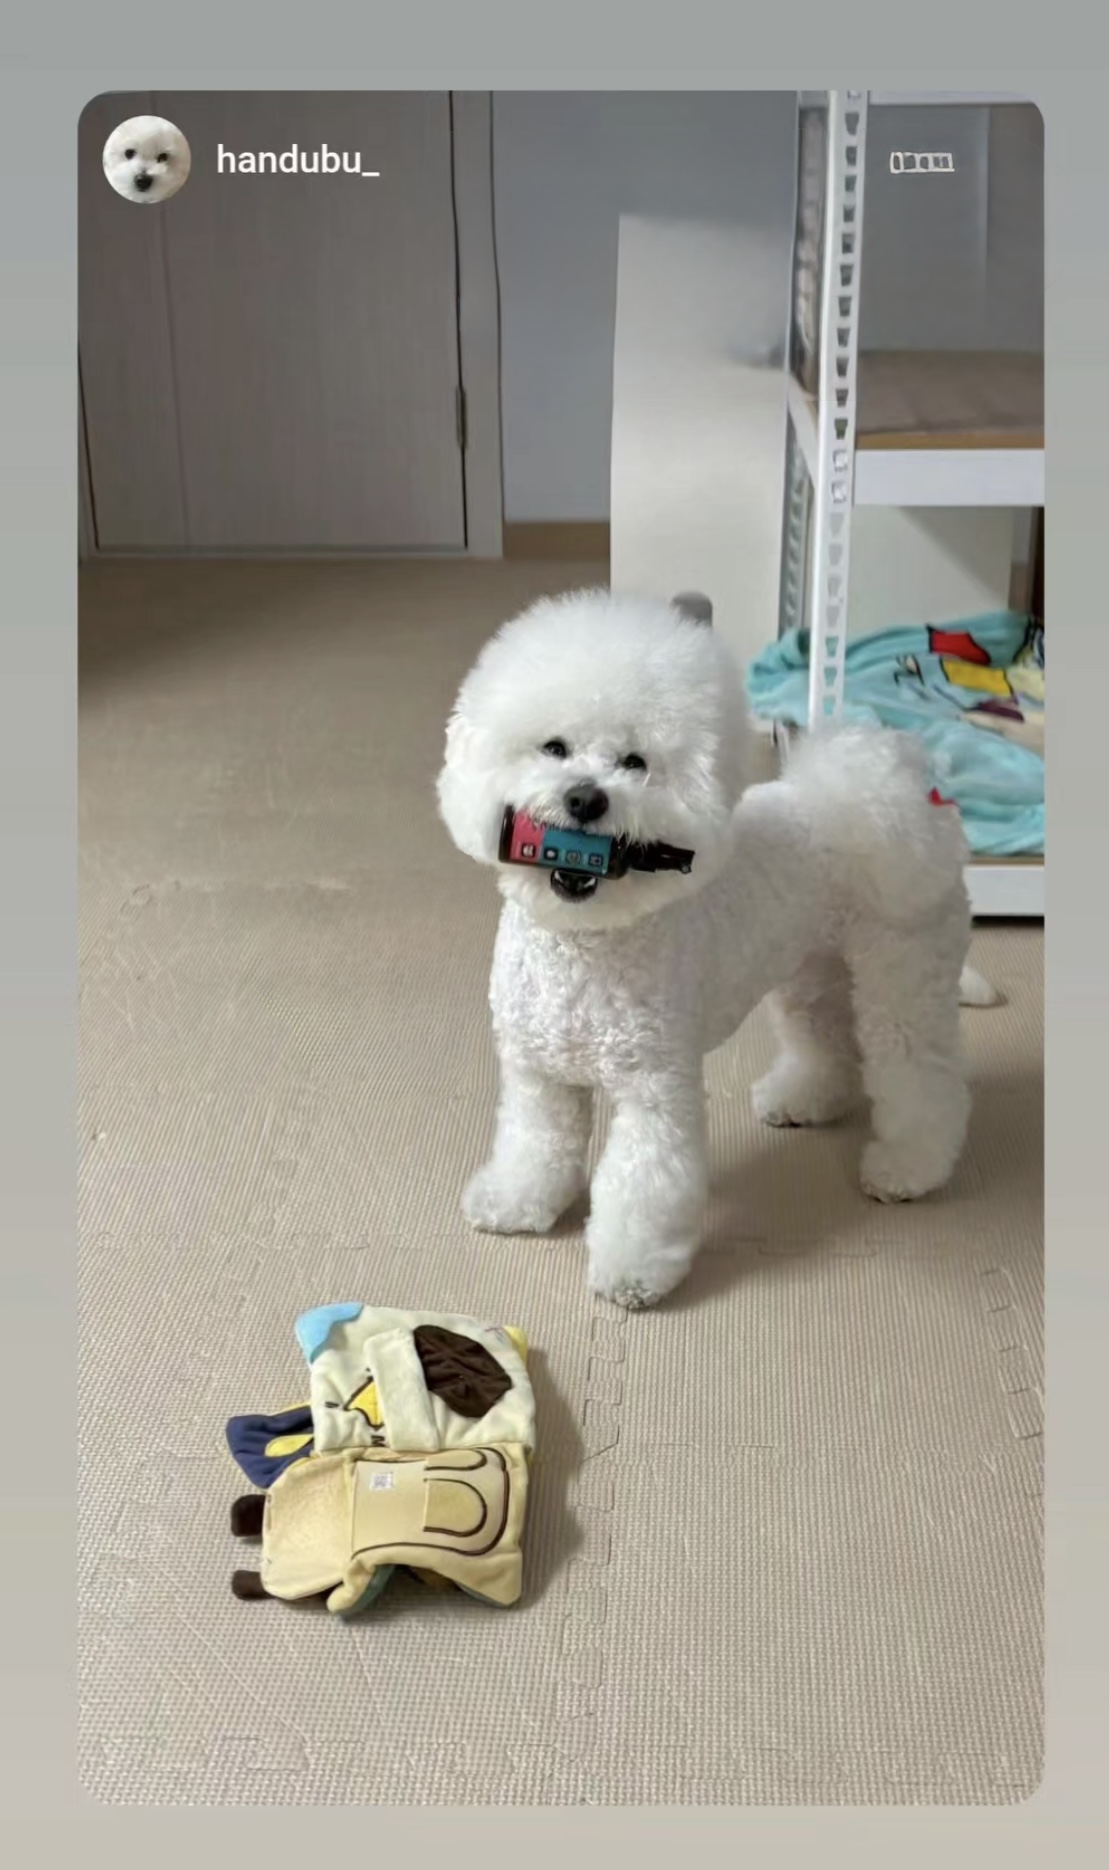
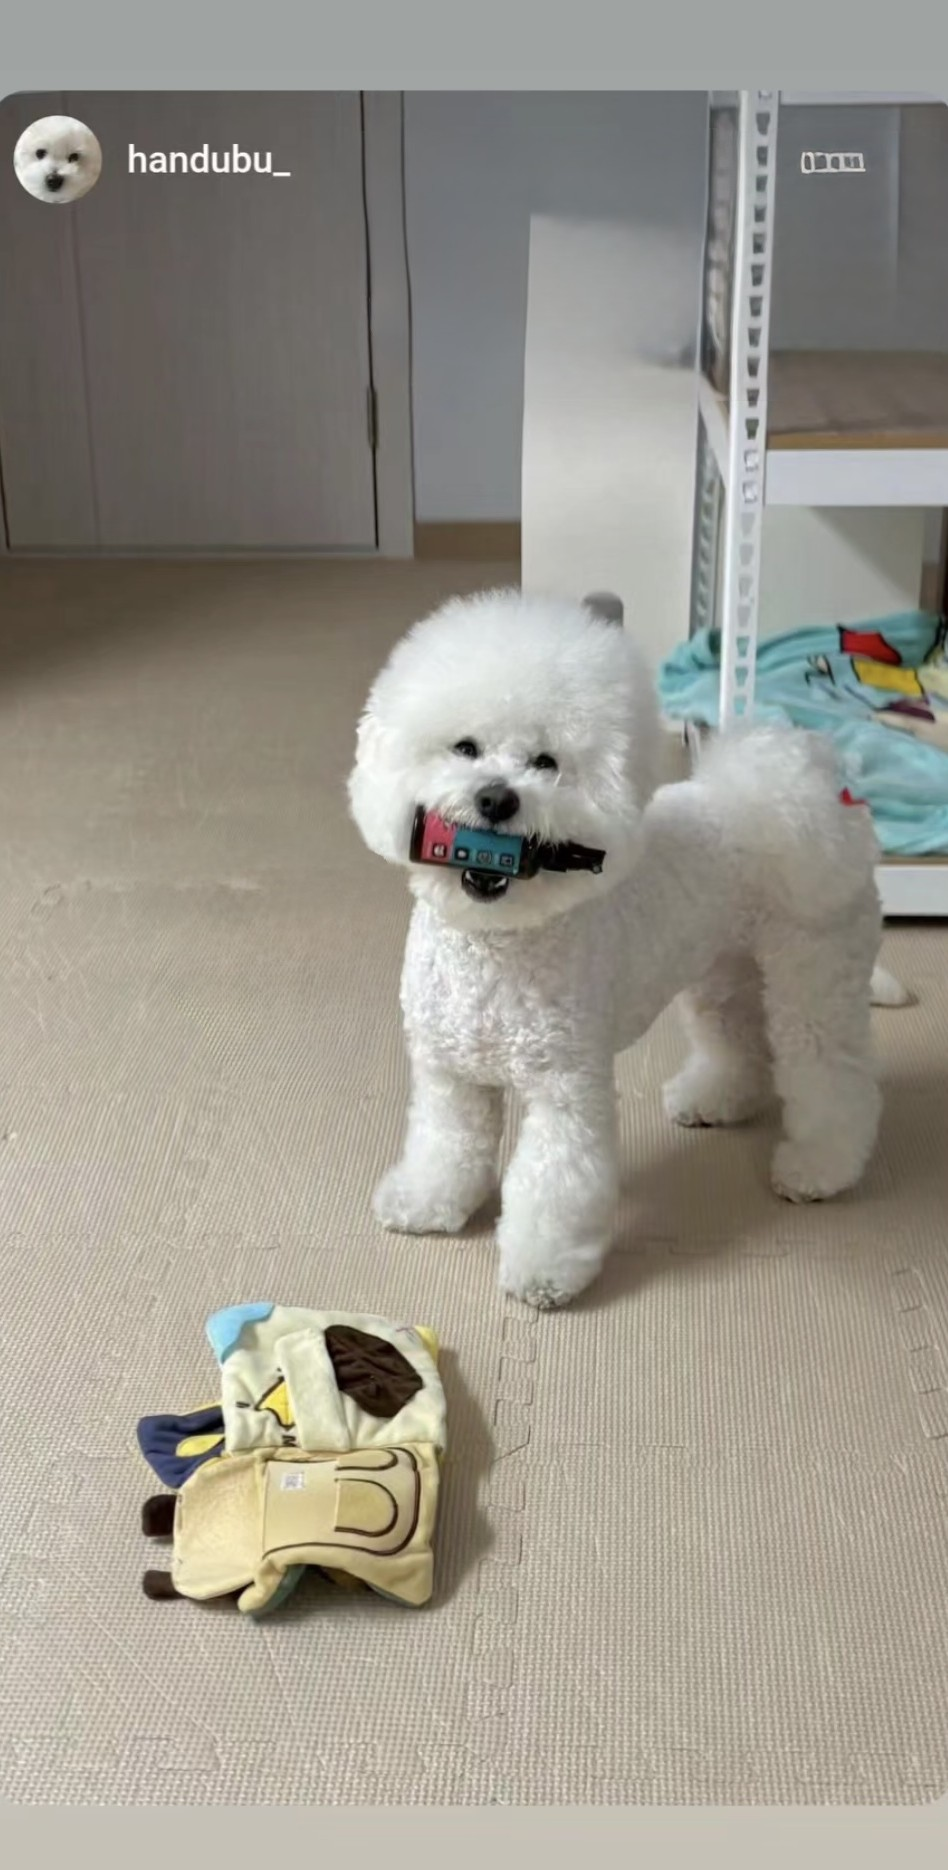
fix: img blank

Changed region(s): [[0.0, 0.031, 1.0, 0.9615], [0.0, 0.031, 0.3365, 0.4963], [0.6118, 0.3102, 0.673, 0.3412]]

diff --git a/styles.css b/styles.css
@@ -612,8 +612,15 @@ p { margin-bottom: 16px; }
   overflow: hidden;
   margin-bottom: 20px;
   background: var(--color-cream-warm);
+  display: flex;
 }
-.howto-image img { width: 100%; height: 100%; object-fit: cover; }
+.howto-image img { 
+  width: 100%; 
+  height: 100%; 
+  object-fit: cover;
+  display: block;
+  object-position: center;
+}
 .howto-num {
   font-family: var(--font-serif);
   font-size: 1.4rem;